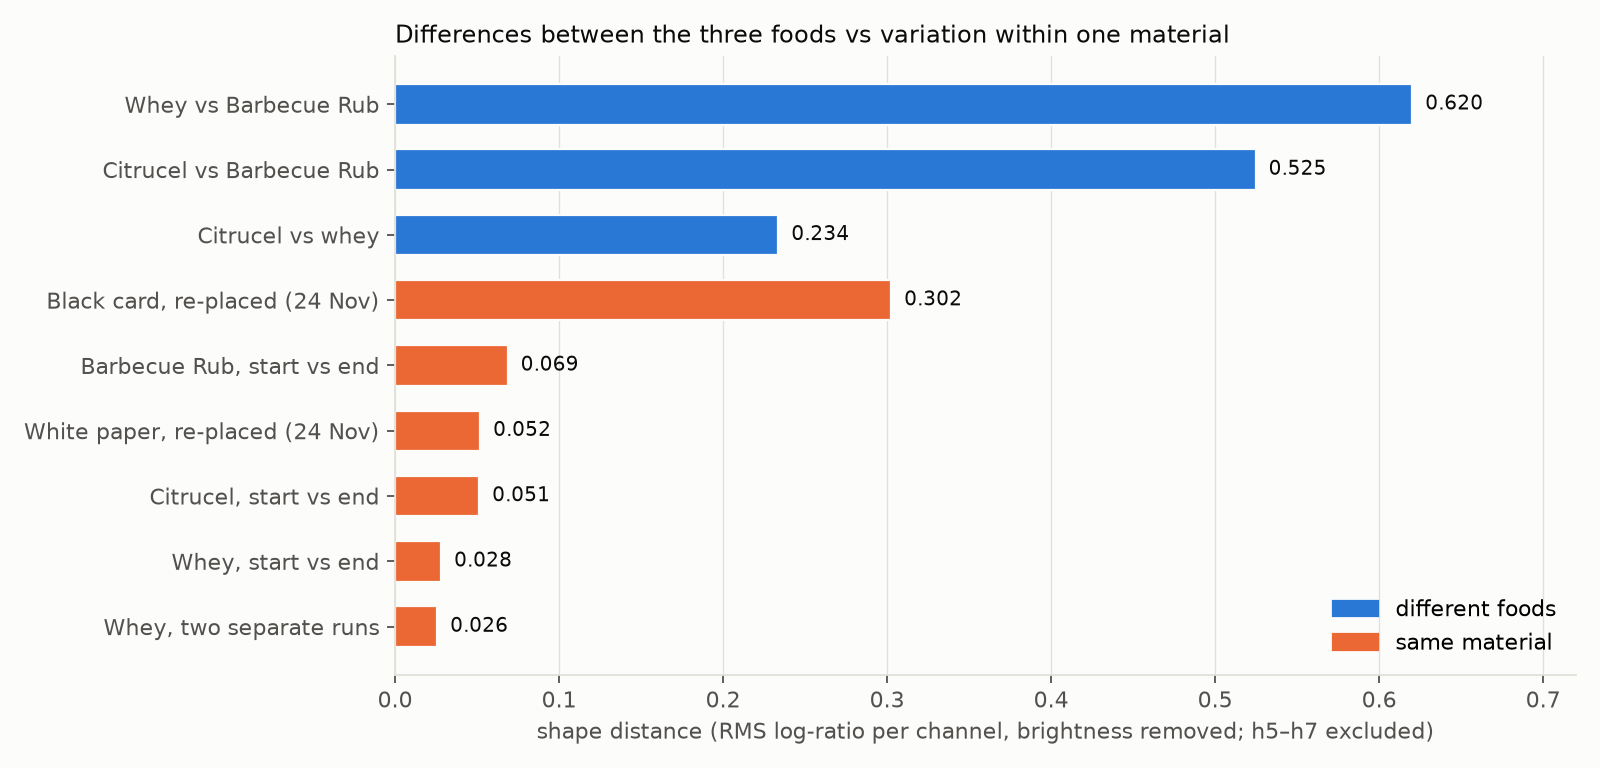
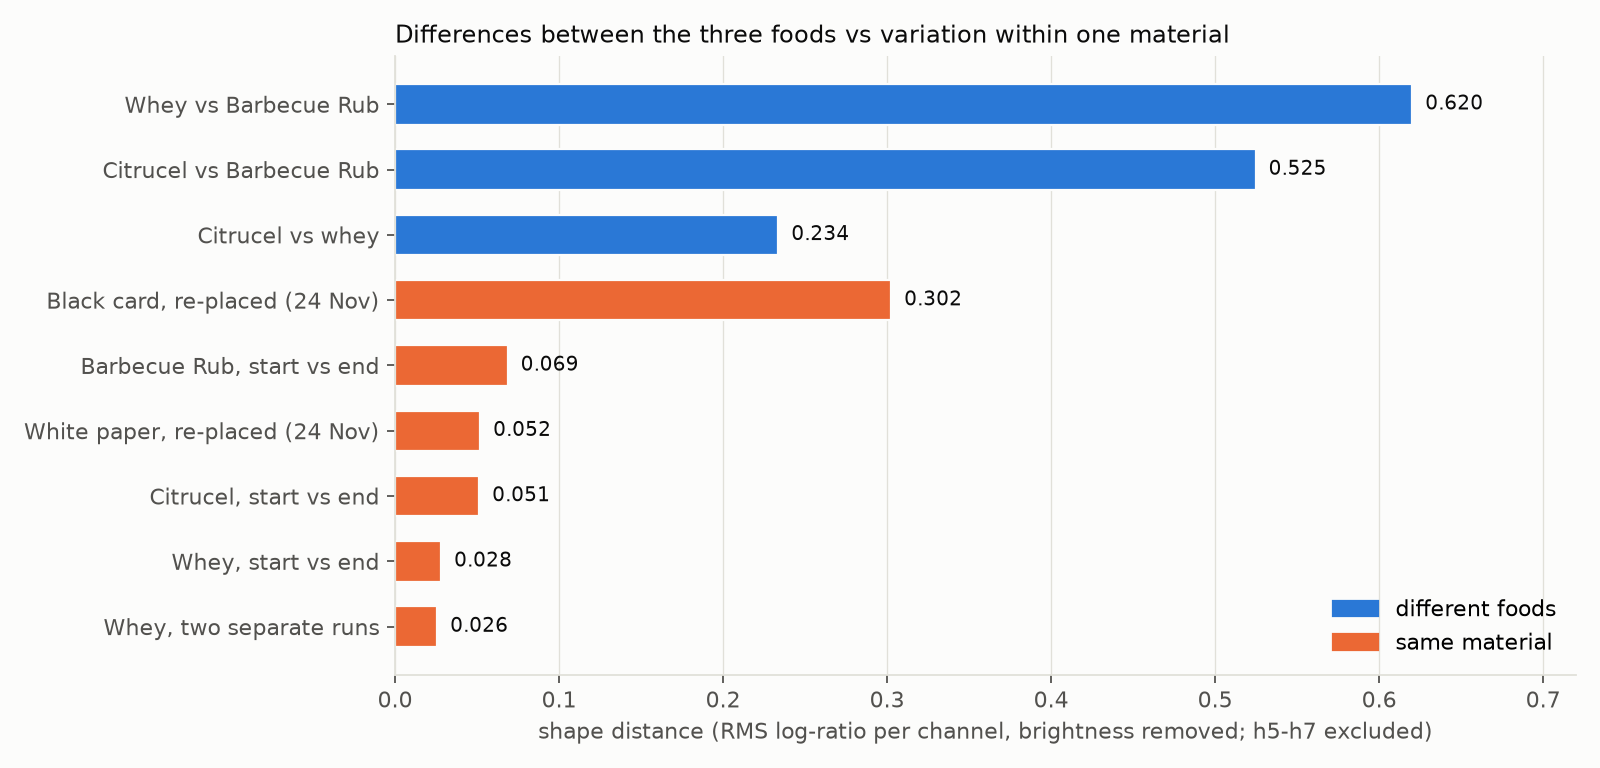
Variance 2026-11-26 scripts: lint fixes (no result change)

Changed region(s): [[0.3438, 0.9375, 0.9062, 0.9688]]

diff --git a/test_results/derived/variance_2026-11-26/variance3.py b/test_results/derived/variance_2026-11-26/variance3.py
@@ -46,7 +46,7 @@ def main() -> None:
     }
     # pairwise distances between foods (and vs empty) at each matched height
     pairs = {}
-    for a, b in itertools.combinations(FOODS + ("empty",), 2):
+    for a, b in itertools.combinations((*FOODS, "empty"), 2):
         ds = [v1.shape_distance(v1.vec_at(cur[a], h), v1.vec_at(cur[b], h))[0] for h in hs]
         pairs[f"{a}|{b}"] = {
             "per_height": [round(x, 4) for x in ds],
@@ -56,7 +56,7 @@ def main() -> None:
     res["pairs"] = pairs
     # within-material
     within = {}
-    for k in FOODS + ("empty",):
+    for k in (*FOODS, "empty"):
         within[f"{k} start vs end (P1/P4)"] = round(
             v1.shape_distance(v1.vec_phase(data[k], "P1"), v1.vec_phase(data[k], "P4"))[0], 4
         )
@@ -80,14 +80,14 @@ def main() -> None:
     res["within"] = within
     # fingerprints relative to OPT101 850 nm at the common low height
     fp = {}
-    for k in ("empty",) + FOODS:
+    for k in ("empty", *FOODS):
         vv = v1.vec_at(cur[k], low)
         fp[k] = {c: round(x / vv["h8/opt101"], 4) for c, x in vv.items()}
     res["fingerprint_rel_h8"] = fp
     # PCA of brightness-removed log fingerprints: 3 foods x 5 heights (+ empty)
     chans = list(fp["citrucel"])
     rows, labels = [], []
-    for k in FOODS + ("empty",):
+    for k in (*FOODS, "empty"):
         for h in hs:
             vv = v1.vec_at(cur[k], h)
             x = np.array([math.log(max(vv[c], 1.0)) for c in chans])

diff --git a/test_results/derived/variance_2026-11-26/plots3.py b/test_results/derived/variance_2026-11-26/plots3.py
@@ -84,7 +84,7 @@ def fingerprints() -> None:
     ax.text(
         5,
         1.15,
-        "h5–h7: unstable in the\nRub run, see text",
+        "h5-h7: unstable in the\nRub run, see text",
         ha="center",
         va="bottom",
         color=MUTED,
@@ -109,7 +109,7 @@ def fingerprints() -> None:
 
 
 def distances() -> None:
-    p, wo, wi = r["pairs"], r["without_h5_h7"], r["within"]
+    wo, wi = r["without_h5_h7"], r["within"]
     items = [
         ("between", "Whey vs Barbecue Rub", wo["pairs"]["whey|rub"]),
         ("between", "Citrucel vs Barbecue Rub", wo["pairs"]["citrucel|rub"]),
@@ -129,7 +129,7 @@ def distances() -> None:
         ax.text(v + 0.008, y, f"{v:.3f}", va="center", color=INK, fontsize=9)
     ax.set_yticks(ys)
     ax.set_yticklabels([i[1] for i in items])
-    ax.set_xlabel("shape distance (RMS log-ratio per channel, brightness removed; h5–h7 excluded)")
+    ax.set_xlabel("shape distance (RMS log-ratio per channel, brightness removed; h5-h7 excluded)")
     ax.set_xlim(0, 0.72)
     ax.grid(axis="x", color=GRID, linewidth=0.6)
     ax.set_axisbelow(True)
